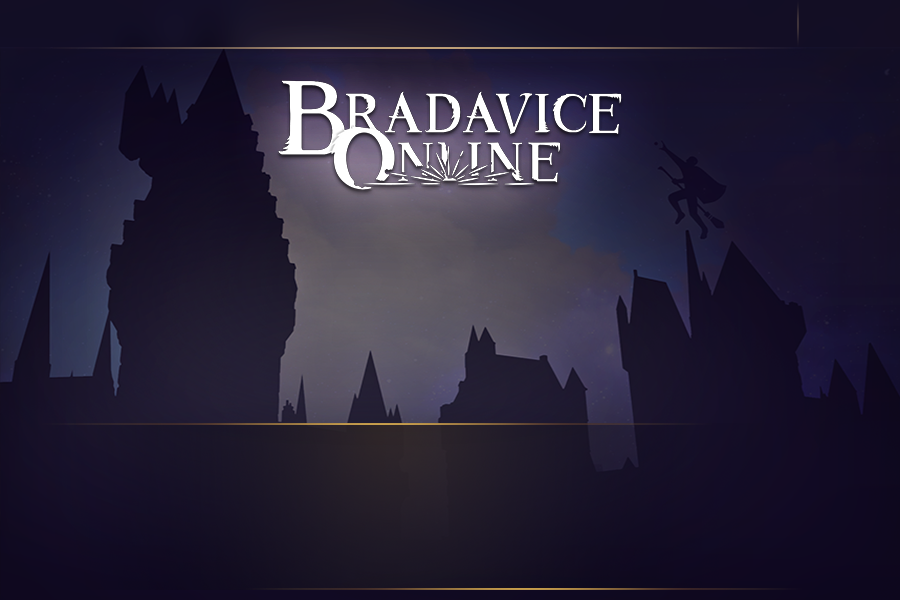
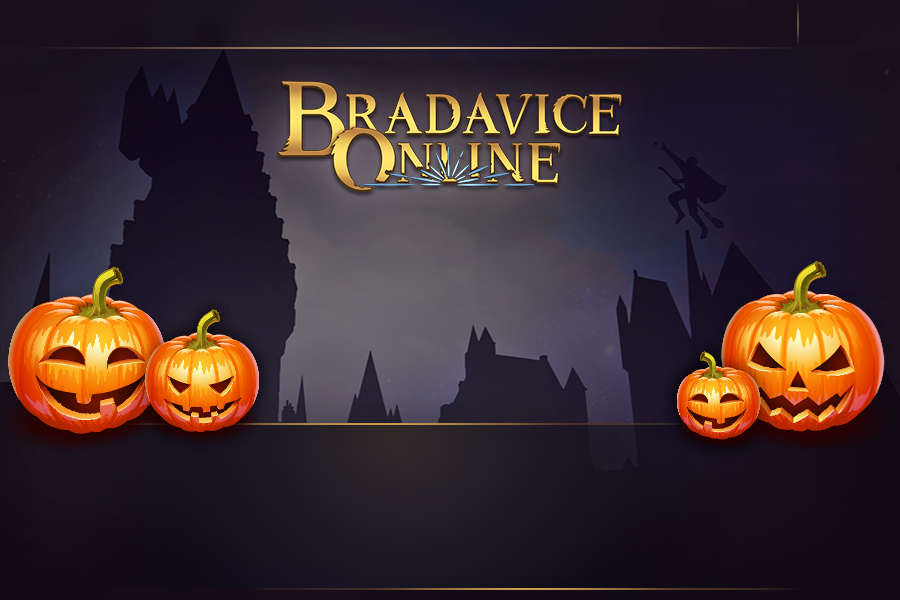
Haloween update

Changed region(s): [[0.0, 0.45, 0.3111, 0.75], [0.3111, 0.12, 0.7156, 0.33], [0.7467, 0.42, 0.9956, 0.75]]

diff --git a/main.js b/main.js
@@ -150,6 +150,21 @@ function deleteCache() {
   });
 }
 
+//Delete Night patch
+async function deleteNightPatch() {
+  return new Promise((resolve, reject) => {
+    fs.rm("../Data/patch-U.MPQ", { recursive: true }, (err) => {
+      if (err) {
+        console.log(err);
+        reject(err);
+      } else {
+        console.log("Deleted patch-U");
+        resolve();
+      }
+    });
+  });
+}
+
 //Compares local patche.json vs serverPatche.json and returns list of patches, which needs to be downloaded
 async function isUpToDate() {
   const localPatcheData = await readFile(`../patche.json`);
@@ -201,6 +216,10 @@ async function downloadPatches(downloadList) {
 
   //delete Cache
   deleteCache();
+
+  if (!GM_ON){
+    await deleteNightPatch();
+  }
 
   isFinishedUpdating = true;
   win.webContents.send("playable", true);
